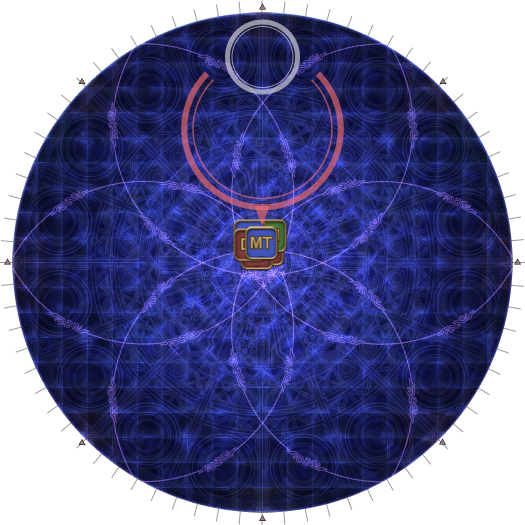
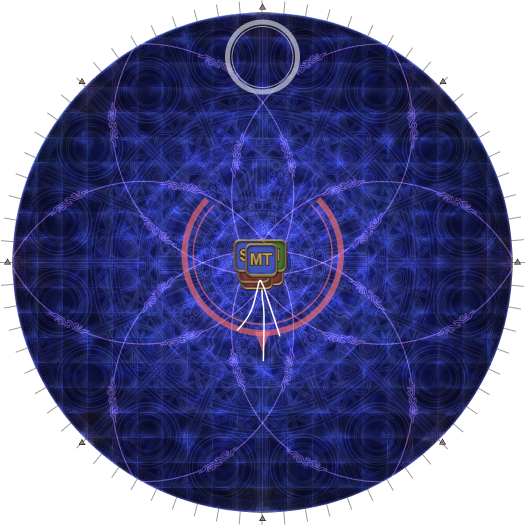
Drag boss to center, clarify Akh Morn positions

Changed region(s): [[0.3352, 0.1219, 0.6705, 0.701]]

diff --git a/_ultimates/fru/04_gaia_and_shiva.md b/_ultimates/fru/04_gaia_and_shiva.md
@@ -40,7 +40,15 @@ you'll still be able to get practice in.)
 <table>
   <tr>
     <td width="50%">
-      <p><b>1.</b> Gather in the center.</p>
+      <p><b>1.</b> Pull the Usurper of Frost to the middle of the arena.</p>
+    </td>
+    <td>
+      <img src="{{site.baseurl}}/images/ultimates/fru/04/akh_rhai_00.jpg">
+    </td>
+  </tr>
+  <tr>
+    <td>
+      <p><b>2.</b> Gather in the center.</p>
       <p>The Usurper of Frost will transform into its dragon form <em>("Come to
       me, Hraesvelgr!")</em></p>
     </td>
@@ -50,10 +58,10 @@ you'll still be able to get practice in.)
   </tr>
   <tr>
     <td>
-      <p><b>2.</b> When the boss transforms, it baits <em>Akh Rhai</em> AoEs 
+      <p><b>3.</b> When the boss transforms, it baits <em>Akh Rhai</em> AoEs 
       where each player was standing.</p>
       <p>Since the party was stacked together, simply move out when the boss 
-      transforms.</p>
+      transforms into your starting positions for <em>Darklit Dragonsong</em>.</p>
     </td>
     <td>
       <img src="{{site.baseurl}}/images/ultimates/fru/04/akh_rhai_02.jpg">
@@ -62,14 +70,15 @@ you'll still be able to get practice in.)
 </table>
 
 The Oracle of Darkness then respawns (everyone should swap over to target her) 
-and the two bosses begin their first mechanic.
+and the two bosses begin their first mechanic (make sure the ST has aggro on
+the Oracle of Darkness).
 
 ## Darklit Dragonsong - Vertical spreads
 
 <table>
   <tr>
     <td width="50%">
-      <p><b>1.</b> Line up on the East and West sides, with the tanks/melee
+      <p><b>4.</b> Line up on the East and West sides, with the tanks/melee
       towards the south.</p>
       <p>Two sets of debuffs come out:</p>
       <ol>
@@ -96,7 +105,7 @@ To summarise, the tethered healer will always go North. For everybody else:
 <table>
   <tr>
     <td width="50%">
-      <p><b>2.</b> This is the best case scenario, where the tethers already
+      <p><b>5.</b> This is the best case scenario, where the tethers already
       make a bowtie.</p>
       <p>No adjustments are needed- the north-most tether players go to the
       North tower, and the south-most tether players go to the South tower.</p>
@@ -148,7 +157,7 @@ With the tethers sorted out, the next thing we need to do is separate the two
 <table>
   <tr>
     <td width="50%">
-      <p><b>3.</b> If the two <em>Dark Water III</em> debuffs are on different 
+      <p><b>6.</b> If the two <em>Dark Water III</em> debuffs are on different 
       sides (North vs. South), then no further adjustments need to be made.</p>
       <p>If the <em>Dark Water III</em> debuffs are either both North, or both
       South, then the Water player and their partner swap sides.</p>
@@ -162,7 +171,7 @@ With the tethers sorted out, the next thing we need to do is separate the two
   </tr>
   <tr>
     <td>
-      <p><b>4.</b> The tethered players take the two towers, while the Usurper
+      <p><b>7.</b> The tethered players take the two towers, while the Usurper
       of Frost readies <em>The Path of Light</em>, which cleaves the four
       closest players- these should be the four non-tethered players.</p>
     </td>
@@ -172,7 +181,7 @@ With the tethers sorted out, the next thing we need to do is separate the two
   </tr>
   <tr>
     <td>
-      <p><b>5.</b> The Oracle of Darkness targets a random player for
+      <p><b>8.</b> The Oracle of Darkness targets a random player for
       <em>Spirit Taker</em>, so spread out.</p>
       <p><b>Do not spread near the Fragment of Fate!</b></p>
     </td>
@@ -182,7 +191,7 @@ With the tethers sorted out, the next thing we need to do is separate the two
   </tr>
   <tr>
     <td>
-      <p><b>6.</b> The Usurper of Frost will then use <em>Hallowed Wings</em>,
+      <p><b>9.</b> The Usurper of Frost will then use <em>Hallowed Wings</em>,
       which will cleave either the West or East half of the arena.</p>
       <p>The <em>Water III</em> debuffs will also resolve roughly at the same
       time, so stack up on the safe half of the arena.</p>
@@ -193,7 +202,7 @@ With the tethers sorted out, the next thing we need to do is separate the two
   </tr>
   <tr>
     <td>
-      <p><b>8.</b> The Oracle of Darkness targets the furthest player for
+      <p><b>10.</b> The Oracle of Darkness targets the furthest player for
       <em>Somber Dance</em>, which should be the tank with aggro.</p>
       <p>The two tanks swap places.</p>
     </td>
@@ -203,7 +212,7 @@ With the tethers sorted out, the next thing we need to do is separate the two
   </tr>
   <tr>
     <td>
-      <p><b>9.</b> This is followed up by <em>Somber Dance's</em> second hit,
+      <p><b>11.</b> This is followed up by <em>Somber Dance's</em> second hit,
       which targets the nearest player. This should be the other tank.</p>
       <p><b>If the first tank is not a GNB or PLD</b>, this can be simplified
       by invulning and having the same tank take both hits instead.</p>
@@ -214,8 +223,24 @@ With the tethers sorted out, the next thing we need to do is separate the two
   </tr>
 </table>
 
-The two bosses then target whoever has their hate with a 4-hit *Akh Morn*, 
-followed by another *Morn Afah*, which is a party stack.
+The two bosses will then teleport a bit West and East of the center for *Akh
+Morn* into *Morn Afah*.
+
+<table>
+  <tr>
+    <td width="50%">
+      <p><b>12.</b> The two bosses target whoever has their hate with a 4-hit
+      <em>Akh Morn</em> (which should be their respective tanks).</p>
+      <ul>
+        <li><b>West:</b> MT, H1, D1, D3 <em>(under Usurper of Frost)</em></li>
+        <li><b>East:</b> ST, H2, D2, D4 <em>(under Oracle of Darkness)</em></li>
+      </ul>
+    </td>
+    <td>
+      <img src="{{site.baseurl}}/images/ultimates/fru/04/akh_morn_01.jpg">
+    </td>
+  </tr>
+</table>
 
 *Morn Afah* is also a boss HP check, and the two bosses must be within 5% HP of
 each other, or *Morn Afah* will be lethal. If they are not within 5% HP, the
@@ -288,7 +313,7 @@ the sea of mechanics.
 <table>
   <tr>
     <td width="50%">
-      <p><b>10.</b> The yellow-tethered hourglasses (North and South) resolve.</p>
+      <p><b>13.</b> The yellow-tethered hourglasses (North and South) resolve.</p>
       <p>The two red Aeros, and all the south-side blue players move into the 
       explosion, and stand at the tip of the "flower petal" decal on the floor.</p>
       <p>The south-side blue players and the red Aero need to <b>stack
@@ -300,7 +325,7 @@ the sea of mechanics.
   </tr>
   <tr>
     <td>
-      <p><b>11.</b> The dragon heads reach the E/W red Ice players around the 
+      <p><b>14.</b> The dragon heads reach the E/W red Ice players around the 
       same time the debuffs resolve.</p>
       <ul>
         <li>The blue Eruption moves down slightly <em>(this is to hedge against
@@ -323,7 +348,7 @@ the sea of mechanics.
   </tr>
   <tr>
     <td>
-      <p><b>12.</b> The second set of hourglasses explode together with the 
+      <p><b>15.</b> The second set of hourglasses explode together with the 
       blue player with <em>Unholy Darkness</em>.</p>
       <ul>
         <li>All players in the stack move to the North sector when the stack 
@@ -340,7 +365,7 @@ the sea of mechanics.
   </tr>
   <tr>
     <td>
-      <p><b>13.</b> The red Aeros intercept the dragon heads. At this point,
+      <p><b>16.</b> The red Aeros intercept the dragon heads. At this point,
       all the red <em>Wyrmclaw</em> debuffs have been resolved.</p>
       <ul>
         <li>The red Aero players go back to the South sector after taking their
@@ -360,7 +385,7 @@ the sea of mechanics.
   </tr>
   <tr>
     <td>
-      <p><b>14.</b> The third set of hourglasses resolve together with the 
+      <p><b>17.</b> The third set of hourglasses resolve together with the 
       first line AoE.</p>
       <p>Depending on where you are, position yourself to dodge into either 
       the first or second line AoE (there will be telegraphs for both).</p>
@@ -372,7 +397,7 @@ the sea of mechanics.
   </tr>
   <tr>
     <td>
-      <p><b>15.</b> Now that all three pairs of hourglasses have resolved, the
+      <p><b>18.</b> Now that all three pairs of hourglasses have resolved, the
       blue debuff players now go out to the puddles left behind to cleanse
       their debuff.</p>
       <p>Each blue player has an assigned puddle to take:</p>
@@ -389,7 +414,7 @@ the sea of mechanics.
   </tr>
   <tr>
     <td>
-      <p><b>16.</b> A second line telegraph now appears, this time either 
+      <p><b>19.</b> A second line telegraph now appears, this time either 
       North or South.</p>
       <p><b>Note which side this telegraph started on (North or South).</b></p>
     </td>
@@ -399,7 +424,7 @@ the sea of mechanics.
   </tr>
   <tr>
     <td>
-      <p><b>17.</b> Position yourselves to dodge the second line AoE.</p>
+      <p><b>20.</b> Position yourselves to dodge the second line AoE.</p>
       <p>The objective is to end up in the <em>corner</em> where <em>both</em>
       line AoEs originated from <em>(North-East in this example)</em>.</p>
       <p>At this point, all blue players should have cleansed their debuff.</p>
@@ -410,7 +435,7 @@ the sea of mechanics.
   </tr>
   <tr>
     <td>
-      <p><b>18.</b> Dodge the second horizontal line AoE.</p>
+      <p><b>21.</b> Dodge the second horizontal line AoE.</p>
       <p>This is the last line AoE you can dodge and still make it to the
       corner in time for the rewind (barring abilities like <em>Shukuchi</em>
       or <em>En Avant</em>).</p>
@@ -421,7 +446,7 @@ the sea of mechanics.
   </tr>
   <tr>
     <td>
-      <p><b>19.</b> Gather together in the corner where both line AoEs 
+      <p><b>22.</b> Gather together in the corner where both line AoEs 
       originated from and start forming up.</p>
       <p><em>(Sprint is </em>very<em> useful here!)</em></p>
     </td>
@@ -431,7 +456,7 @@ the sea of mechanics.
   </tr>
   <tr>
     <td>
-      <p><b>20.</b> Make two groups in the corner.</p>
+      <p><b>23.</b> Make two groups in the corner.</p>
       <ul>
         <li><b>MT, H1, D1, D3:</b> Left-side, facing outside.</li>
         <li><b>ST, H2, D2, D4:</b> Right-side, facing outside.</li>
@@ -451,7 +476,7 @@ the sea of mechanics.
   </tr>
   <tr>
     <td>
-      <p><b>21.</b> After recording your position, spread out for <em>Spirit 
+      <p><b>24.</b> After recording your position, spread out for <em>Spirit 
       Taker</em> on a random player.</p>
       <p><b>Do not spread near the Fragment of Fate!</b></p>
       <ul>
@@ -466,7 +491,7 @@ the sea of mechanics.
   </tr>
   <tr>
     <td>
-      <p><b>22.</b> The rewind resolves, and the Usurper of Frost casts 
+      <p><b>25.</b> The rewind resolves, and the Usurper of Frost casts 
       <em>Hallowed Wings</em> from the side where the first line AoE came from.</p>
       <ul>
         <li>The party gets knocked back half the arena.</li>
@@ -481,7 +506,7 @@ the sea of mechanics.
   </tr>
   <tr>
     <td>
-      <p><b>23.</b> The second <em>Hallowed Wings</em> resolves, this time from
+      <p><b>26.</b> The second <em>Hallowed Wings</em> resolves, this time from
       North or South (wherever the second line AoE came from).</p>
     </td>
     <td>
